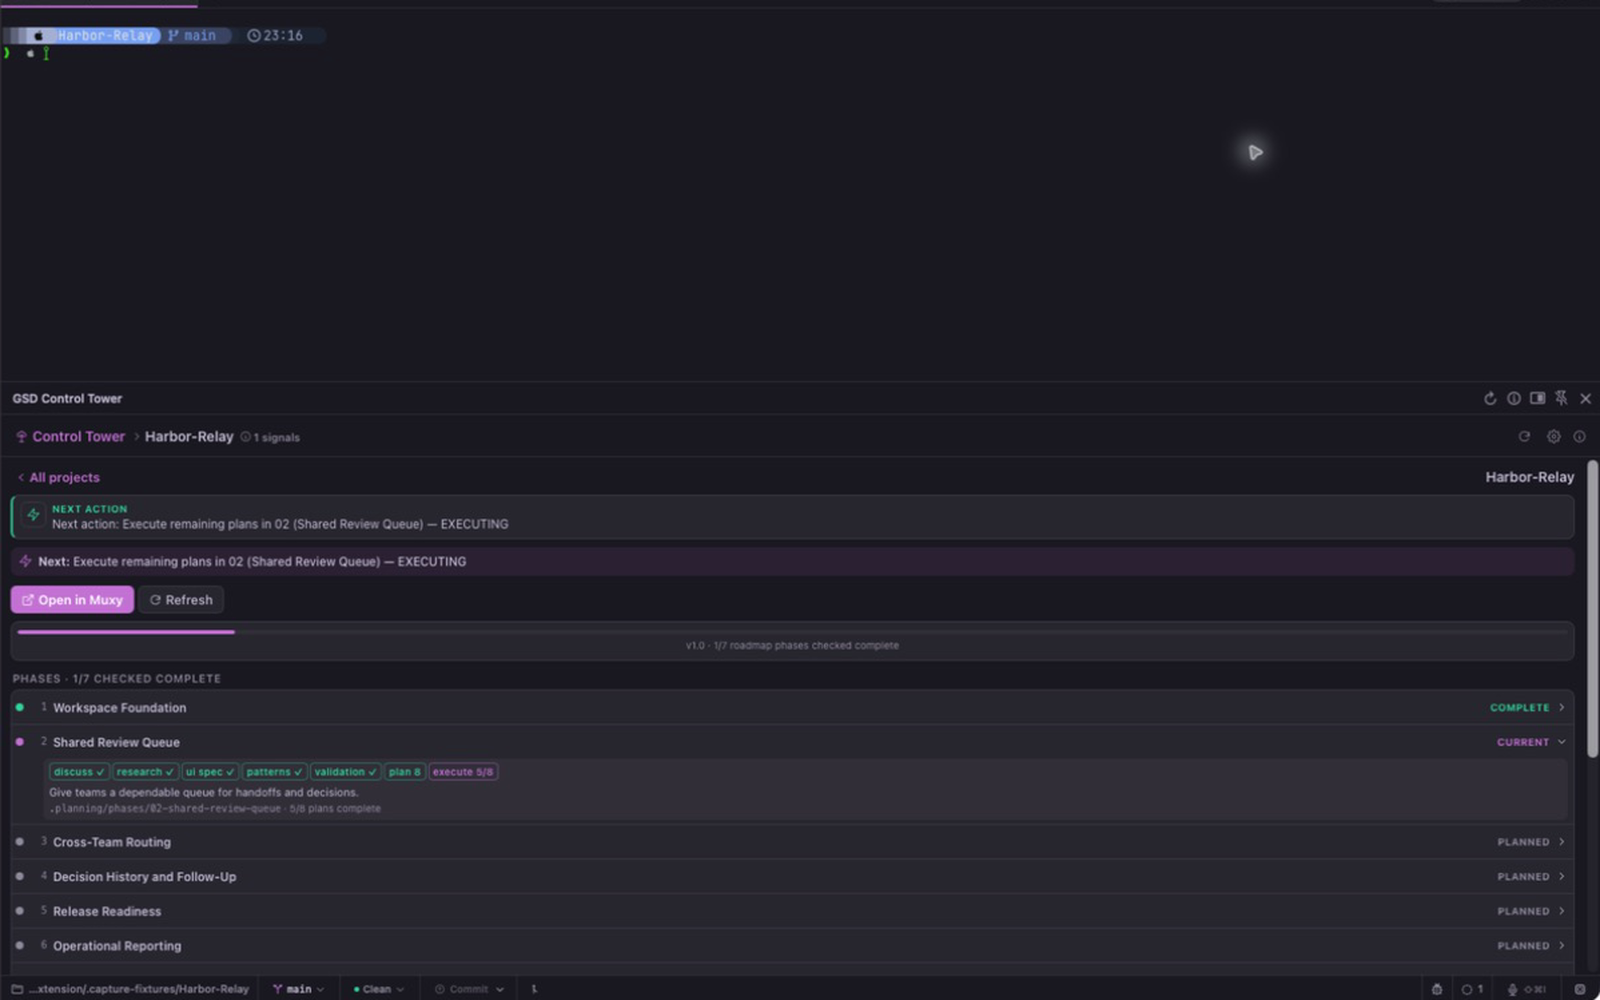
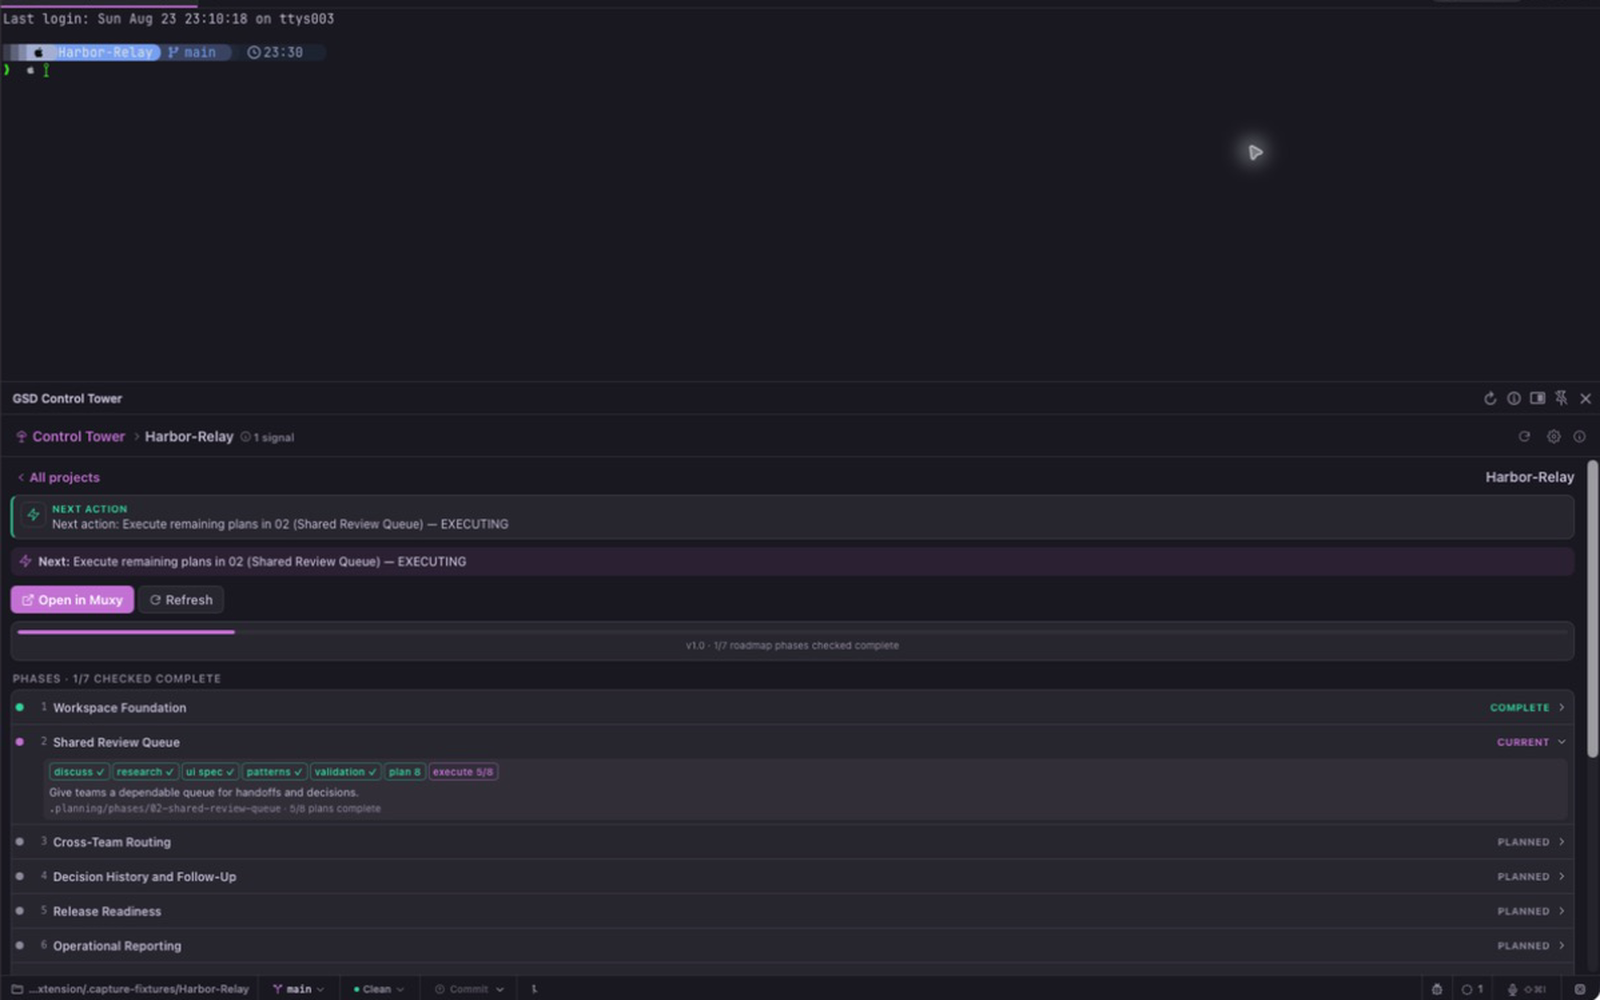
Polish realistic Muxy captures

Changed region(s): [[0.0, 0.0, 0.2188, 0.093]]

diff --git a/src/panel/app.js b/src/panel/app.js
@@ -35,6 +35,10 @@ export function stateColor(controlState) {
   return `var(--st-${controlState}, var(--st-idle))`;
 }
 
+export function countLabel(count, singular, plural = `${singular}s`) {
+  return `${count} ${count === 1 ? singular : plural}`;
+}
+
 export class ControlTowerApp {
   constructor(root) {
     this.root = root;
@@ -624,7 +628,9 @@ export class ControlTowerApp {
           title: `${signalCount} of ${rows.length} workstreams have status signals`,
         },
           signalCount > 0 ? icon("info", 12) : icon("check", 12),
-          signalCount > 0 ? `${signalCount} signals` : `${rows.length} workstreams`,
+          signalCount > 0
+            ? countLabel(signalCount, "signal")
+            : countLabel(rows.length, "workstream"),
         ),
         h("span", { class: "ct-spacer" }),
         this.refreshing

diff --git a/test/panel-hardening.test.js b/test/panel-hardening.test.js
@@ -1,6 +1,6 @@
 import { test } from "node:test";
 import assert from "node:assert/strict";
-import { ControlTowerApp } from "../src/panel/app.js";
+import { ControlTowerApp, countLabel } from "../src/panel/app.js";
 import { initialState } from "../src/core/reducer.js";
 
 function bareApp() {
@@ -10,6 +10,13 @@ function bareApp() {
   app.maybeAutoFocusActiveProject = () => {};
   return app;
 }
+
+test("header counts use singular and plural labels", () => {
+  assert.equal(countLabel(1, "signal"), "1 signal");
+  assert.equal(countLabel(2, "signal"), "2 signals");
+  assert.equal(countLabel(1, "workstream"), "1 workstream");
+  assert.equal(countLabel(0, "workstream"), "0 workstreams");
+});
 
 test("refresh requests coalesce into one follow-up while a refresh is in flight", async () => {
   const app = bareApp();
